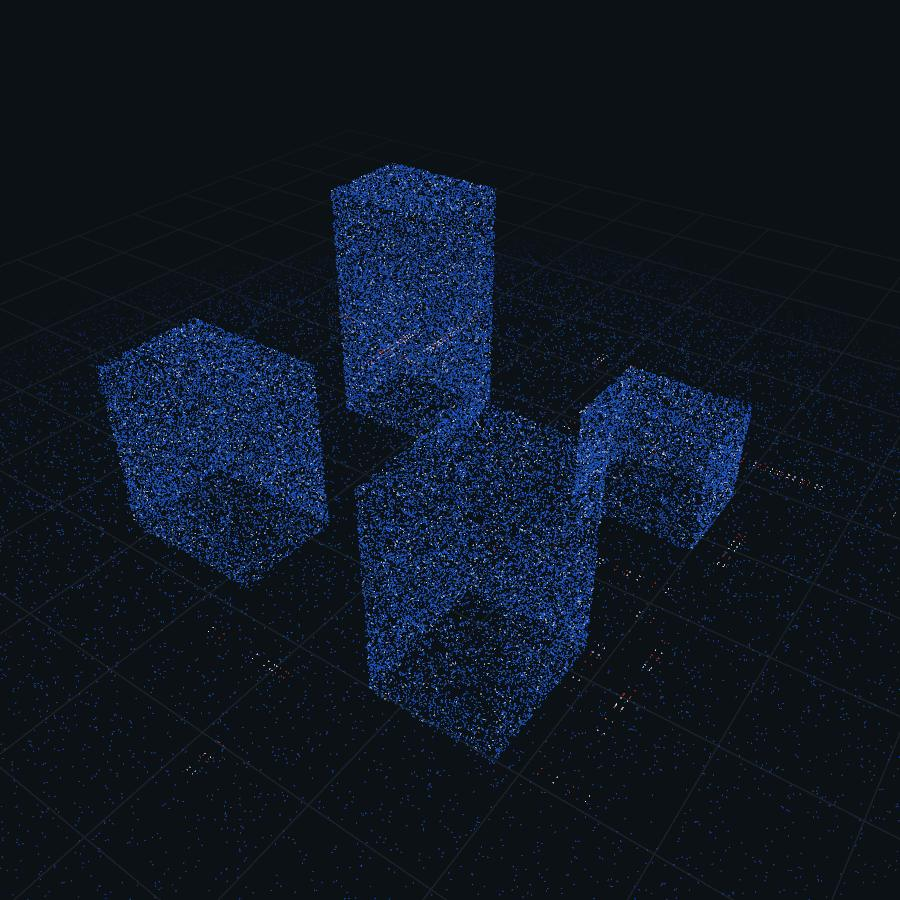
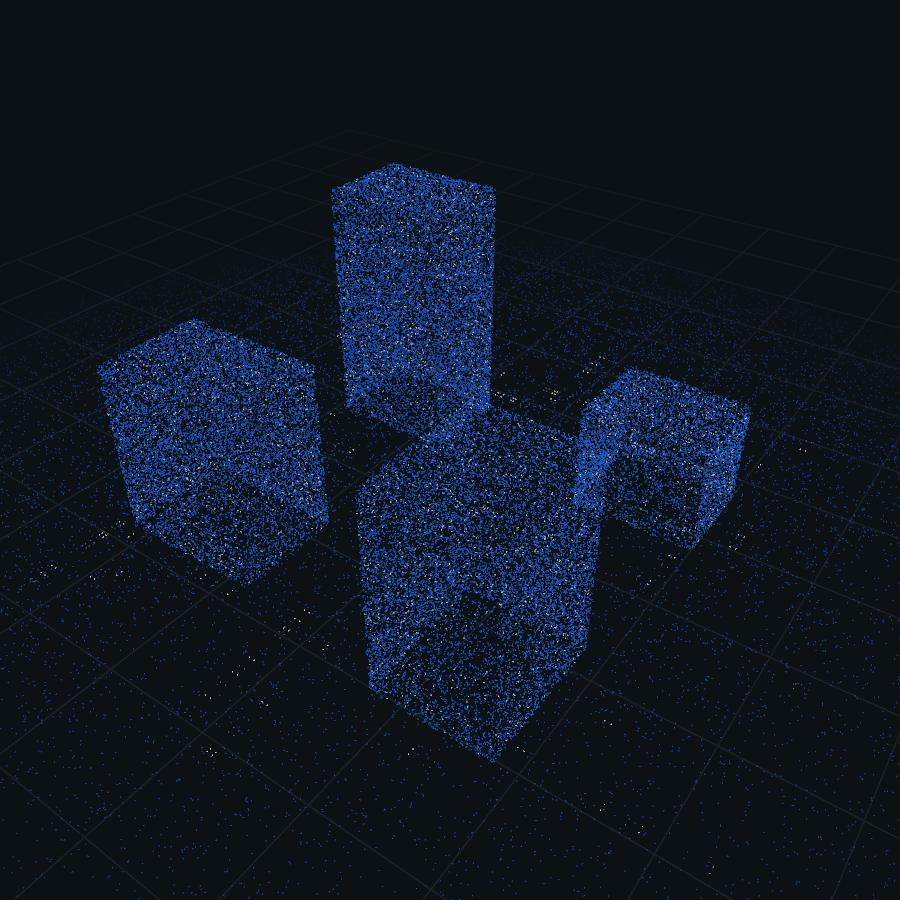
Drop the red tail lights and break up the traffic's regularity
Red was the only warm colour on the site and broke the single-accent rule to
buy realism the scene does not need. Heading is now carried by brightness
alone: bright pair leading, dim pair trailing.

The movement read as mechanical because every vehicle in a lane ran at
essentially the same speed, so the formation was rigid and just slid along.
Speeds are now spread widely around the lane pace, which makes vehicles drift
relative to one another so gaps open and close continuously. Opposing lanes on
an avenue also get independent paces rather than sharing one, spacing mixes
platoons with free-running singles, and vehicle lengths vary.

diff --git a/js/scene-cloud.js b/js/scene-cloud.js
@@ -29,9 +29,9 @@ const COLOR = {
   dim:      new THREE.Color('#3D6E9E'),
   hot:      new THREE.Color('#DCE6F2'),
   head:     new THREE.Color('#F4F8FF'),
-  // The one warm colour on the page. It earns its place: red tail lights are
-  // what tell you which way a vehicle is facing, at a glance, with no legend.
-  tail:     new THREE.Color('#D8402C'),
+  // Heading is conveyed by brightness alone — bright pair leading, dim pair
+  // trailing. Keeps the page to one accent, which red tail lights broke.
+  tail:     new THREE.Color('#7C93B5'),
 };
 
 /* Ease over 90 ticks with up to 30 ticks of stagger — 120 ticks at 60Hz, so
@@ -222,21 +222,19 @@ function buildTraffic({
       a[o] = lane.a[0]; a[o + 1] = lane.a[1]; a[o + 2] = lane.a[2];
       b[o] = lane.b[0]; b[o + 1] = lane.b[1]; b[o + 2] = lane.b[2];
 
-      offset[o]     = fx * lamp.long * HALF_LENGTH + lx * lamp.lat * HALF_TRACK;
+      const halfLen = HALF_LENGTH * v.length;
+      offset[o]     = fx * lamp.long * halfLen + lx * lamp.lat * HALF_TRACK;
       offset[o + 1] = 0;
-      offset[o + 2] = fz * lamp.long * HALF_LENGTH + lz * lamp.lat * HALF_TRACK;
+      offset[o + 2] = fz * lamp.long * halfLen + lz * lamp.lat * HALF_TRACK;
 
       // Every lamp on a vehicle shares its motion, or the car pulls apart.
       speed[p] = v.speed;
       phase[p] = v.phase;
 
-      if (lamp.tail) {
-        // Tail lights are much dimmer than headlights in reality, and a field
-        // of full-brightness red would fight the blue for attention.
-        c.copy(COLOR.tail).lerp(COLOR.viewport, 0.15);
-      } else {
-        c.copy(COLOR.head);
-      }
+      // Well below the headlights: the brightness gap is the only cue for
+      // which way the vehicle is pointing, so it has to be unambiguous.
+      if (lamp.tail) c.copy(COLOR.tail).lerp(COLOR.viewport, 0.42);
+      else c.copy(COLOR.head);
       colour[o] = c.r; colour[o + 1] = c.g; colour[o + 2] = c.b;
       p++;
     }
@@ -309,15 +307,17 @@ function buildLanes() {
     });
   };
 
-  for (const at of AVENUES) {
-    // Ticks to traverse the full lane — roughly 9 to 14 seconds.
-    const zSpeed = 1 / (520 + Math.random() * 300);
-    add([at + LANE_OFFSET, ROAD_Y, -E], [at + LANE_OFFSET, ROAD_Y, E], zSpeed);
-    add([at - LANE_OFFSET, ROAD_Y, E], [at - LANE_OFFSET, ROAD_Y, -E], zSpeed * 1.08);
+  // Base pace per lane, widely spread so no two streets run at the same rate.
+  const pace = () => 1 / (420 + Math.random() ** 1.3 * 700);
 
-    const xSpeed = 1 / (520 + Math.random() * 300);
-    add([-E, ROAD_Y, at - LANE_OFFSET], [E, ROAD_Y, at - LANE_OFFSET], xSpeed);
-    add([E, ROAD_Y, at + LANE_OFFSET], [-E, ROAD_Y, at + LANE_OFFSET], xSpeed * 1.08);
+  for (const at of AVENUES) {
+    // Opposing lanes on the same avenue get independent paces too — tying
+    // them together made both sides move as one block.
+    add([at + LANE_OFFSET, ROAD_Y, -E], [at + LANE_OFFSET, ROAD_Y, E], pace());
+    add([at - LANE_OFFSET, ROAD_Y, E], [at - LANE_OFFSET, ROAD_Y, -E], pace());
+
+    add([-E, ROAD_Y, at - LANE_OFFSET], [E, ROAD_Y, at - LANE_OFFSET], pace());
+    add([E, ROAD_Y, at + LANE_OFFSET], [-E, ROAD_Y, at + LANE_OFFSET], pace());
   }
   return lanes;
 }
@@ -338,17 +338,33 @@ function placeVehicles(lanes, vehicleCount) {
     const centres = Array.from({ length: platoons }, () => Math.random());
 
     for (let i = 0; i < n; i++) {
-      const centre = centres[i % platoons];
-      const spread = 0.04 + Math.random() * 0.07;
-      // Sum of two uniforms — triangular, so vehicles bunch toward the centre
-      // of their platoon rather than spreading evenly across it.
-      const jitter = (Math.random() + Math.random() - 1) * spread;
-      const phase = ((centre + jitter) % 1 + 1) % 1;
+      let phase;
+      if (Math.random() < 0.62) {
+        // In a platoon. Each platoon gets its own spread, so clumps differ in
+        // size instead of all looking like the same blob.
+        const centre = centres[i % platoons];
+        const spread = 0.02 + Math.random() ** 1.6 * 0.14;
+        // Sum of two uniforms — triangular, so vehicles bunch toward the
+        // centre of their platoon rather than spreading evenly across it.
+        const jitter = (Math.random() + Math.random() - 1) * spread;
+        phase = centre + jitter;
+      } else {
+        // Free-running singles between the platoons, which is what breaks up
+        // the "one convoy per street" look.
+        phase = Math.random();
+      }
 
       vehicles.push({
         lane,
-        phase,
-        speed: lane.speed * (0.94 + Math.random() * 0.12),
+        phase: ((phase % 1) + 1) % 1,
+        // Wide, skewed spread rather than a tight band around the lane speed.
+        // This is the change that matters: when every vehicle moves at nearly
+        // the same rate the whole formation is rigid and merely slides along.
+        // Spread them and they drift relative to each other, so gaps open and
+        // close continuously and the pattern never repeats.
+        speed: lane.speed * (0.62 + Math.random() ** 1.4 * 1.05),
+        // Vehicle lengths vary — a long one reads as a van or a bus.
+        length: 0.78 + Math.random() ** 1.5 * 1.15,
       });
     }
   }

diff --git a/README.md b/README.md
@@ -88,22 +88,37 @@ aligned, those offsets are baked into world space on the CPU, so the shader
 only adds a vector. All four lamps share a vehicle's speed and phase; give
 them their own and the car pulls apart.
 
-Red tail lights are the only warm colour on the site, and a deliberate
-departure from the spec's single-accent rule. They earn it: they tell you
-which way a vehicle is facing instantly, with no legend. They are dimmed
-toward the background so they never compete with the blue.
+Heading is conveyed by **brightness alone** — bright pair leading, dim pair
+trailing. An earlier version used red tail lights; that was more literal but
+it put the only warm colour on the site and broke the single-accent rule for
+no real gain. The scene does not need to look photographic.
 
 Two constants govern legibility, and they trade against each other:
 `HALF_LENGTH`/`HALF_TRACK` set how far apart the lamps sit, and the lamp
 `sizeNode` factor sets how big each one is. Push the size up and the four
 merge into one blob at mid distance; push it down and vehicles disappear.
 
-Density is **variable by design.** Each lane draws its own load from a
-low-skewed distribution, so most streets run quiet and one or two run busy,
-and busier lanes run slower. Within a lane, vehicles are clustered into one to
-three platoons rather than spaced evenly — evenly spaced traffic looks like a
-conveyor belt, and clustering is what lets a low vehicle count still read as a
-working street.
+### Why the traffic looks irregular
+
+Getting this to stop looking mechanical took four separate sources of
+randomness, and removing any one of them brings the regularity back:
+
+1. **Per-lane load.** Each lane draws its own traffic level from a low-skewed
+   distribution, so most streets run quiet and one or two run busy.
+2. **Per-lane pace.** Every lane, including the two opposing lanes of the same
+   avenue, gets an independent base speed. Tying opposing lanes together made
+   both sides move as one block.
+3. **Per-vehicle speed — the one that matters most.** Speeds are spread widely
+   around the lane pace rather than sitting in a tight band. When every vehicle
+   moves at nearly the same rate the whole formation is rigid and merely slides
+   along; spread them and they drift relative to each other, so gaps open and
+   close continuously and the pattern never repeats. Vehicles do pass through
+   each other as a result, which is invisible at this scale.
+4. **Mixed spacing.** About 62% of vehicles sit in platoons, each with its own
+   spread; the rest run free at uniform random positions. Pure platoons read as
+   one convoy per street, pure random reads as static noise.
+
+Vehicle lengths vary too, so a long one reads as a van rather than a car.
 
 Under `prefers-reduced-motion`, re-run still works — it generates a new block
 and jumps straight to the resolved frame with no animation.
